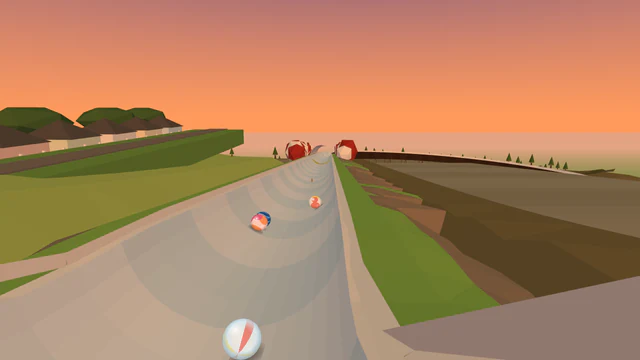
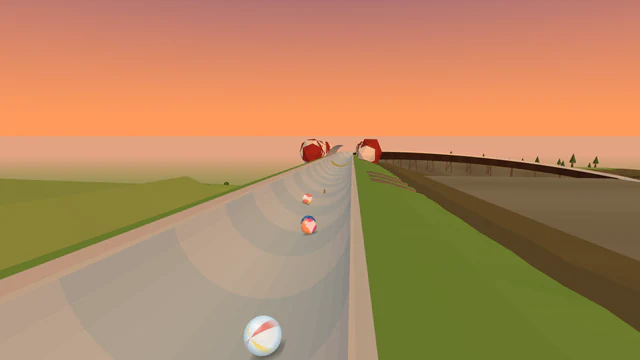
Rivers WIP: Yangtze over a dam crest (sameness 0.50), three levee pegs on Mississippi
Claude-Session: https://claude.ai/code/session_011vSSkqNPL9kncfzrwF15wS

diff --git a/src/trackKit/layouts.js b/src/trackKit/layouts.js
@@ -1323,9 +1323,9 @@ const LAYOUTS = {
       obstacles: [parked({ costume: c.parked, at: 0.2, side: L, length: 6 }), peg({ costume: c.peg, at: 0.45, line: 'right' })], features: [rumble({ from: 0.7, to: 0.95, count: 3 })],
     },
   ],
-  /** L76 Steamer pass (Rivers): a straight along the levee (a peg), a straight through a paddle steamer (a tunnel; a boost), a long sweep out over the bayou (it flies here), a drop, the hairpin, S-bends through the river town, a slalom drop, a sweep to the landing and a parked piece and a peg at the run-in. */
+  /** L76 Steamer pass (Rivers): a straight along the levee (three pegs), a straight through a paddle steamer (a tunnel; a boost), a long sweep out over the bayou (it flies here), a drop, the hairpin, S-bends through the river town, a slalom drop, a sweep to the landing and a parked piece and a peg at the run-in. */
   'steamer-pass': (L, R, c) => [
-    { key: 'levee', name: 'Levee straight', shape: straight(120, { grade: 0.1 }), obstacles: [peg({ costume: c.peg, at: 0.5, line: 'center' })], billboards: 1 },
+    { key: 'levee', name: 'Levee straight', shape: straight(120, { grade: 0.1 }), obstacles: [peg({ costume: c.peg, at: 0.2, line: 'left' }), peg({ costume: c.peg, at: 0.35, line: 'right' }), peg({ costume: c.peg, at: 0.5, line: 'center' })], billboards: 1 },
     { key: 'steamer', name: 'Through the steamer', shape: straight(70, { grade: 0.1 }), features: [boost({ at: 0.1 })] },
     { key: 'bayou', name: 'Bayou sweep', shape: sweep({ side: L, radius: 90, degrees: 140, grade: 0.085 }), billboards: 2 },
     { key: 'drop', name: 'Drop', shape: plunge(45, { grade: 0.22, from: 0.085 }) },
@@ -1357,15 +1357,16 @@ const LAYOUTS = {
       obstacles: [parked({ costume: c.parked, at: 0.2, side: L, length: 6 }), peg({ costume: c.peg, at: 0.45, line: 'right' })], features: [rumble({ from: 0.7, to: 0.95, count: 3 })],
     },
   ],
-  /** L78 Lock staircase (Rivers): a straight down five lock steps, a river sweep, a steep slalom drop under a long bridge (the lottery: the clean drop has none at the gate), the hairpin, S-bends, a spiral and a parked piece and a peg at the run-in. */
+  /** L78 Lock staircase (Rivers): a straight down five lock steps, a short climb over the dam crest, a steep slalom drop under a long bridge (the lottery: the clean drop has none at the gate), a river sweep, S-bends, a spiral, the hairpin and a parked piece and a peg at the run-in. */
   'lock-staircase': (L, R, c) => [
     { key: 'locks', name: 'Lock staircase', shape: straight(100, { grade: 0.15 }), features: [steps({ from: 0.3, to: 0.9, count: 5, drag: 0.01 })], billboards: 1 },
-    { key: 'riverSweep', name: 'River sweep', shape: sweep({ side: R, radius: 85, degrees: 100, grade: 0.1 }), billboards: 2 },
+    { key: 'damCrest', name: 'Over the dam crest', shape: climb(12, { grade: -0.05, after: 0.1 }) },
     { key: 'bridgeRun', name: 'Bridge slalom', shape: plunge(65, { grade: 0.3, from: 0.09 }), obstacles: [slalom({ costume: c.slalom, from: 0.2, to: 0.95, count: 5, loss: 0.15 })] },
-    { key: 'brakingStraight', name: 'Run to the hairpin', shape: straight(50, { grade: 0.12 }) },
-    { key: 'hairpin', name: 'Hairpin', shape: hairpin({ side: L }), obstacles: [swipe({ costume: c.swipe, side: 'high' })] },
+    { key: 'riverSweep', name: 'River sweep', shape: sweep({ side: R, radius: 85, degrees: 100, grade: 0.1 }), billboards: 2 },
     { key: 'sBends', name: 'S-bends', shape: sBends({ first: R, radius: 75, degrees: 60, grade: 0.12 }), billboards: 1 },
     { key: 'spin', name: 'Spiral', shape: spiral({ side: L, radius: 50, turns: 1, grade: 0.16 }) },
+    { key: 'brakingStraight', name: 'Run to the hairpin', shape: straight(50, { grade: 0.12 }) },
+    { key: 'hairpin', name: 'Hairpin', shape: hairpin({ side: L }), obstacles: [swipe({ costume: c.swipe, side: 'high' })] },
     {
       key: 'lastStraight', name: 'Last straight', shape: straight(75, { grade: 0.15 }),
       obstacles: [parked({ costume: c.parked, at: 0.2, side: R, length: 6 }), peg({ costume: c.peg, at: 0.45, line: 'left' })], features: [rumble({ from: 0.7, to: 0.95, count: 3 })],

diff --git a/src/tracks/yangtze-lock-run.js b/src/tracks/yangtze-lock-run.js
@@ -1,9 +1,9 @@
 'use strict';
 
 // Yangtze Lock Run: Rivers track 5, at a great river's ship locks among green mountains. Out of the top
-// lock as its gate opens, down a staircase of five locks beside the ships waiting in them, a wide sweep
-// down the river, a slalom under a long cable-stayed bridge, round a hairpin past the river boats and
-// down to the quay below the green peaks.
+// lock as its gate opens, down a staircase of five locks beside the ships waiting in them, over the dam
+// crest, a slalom down under a long cable-stayed bridge, a wide sweep down the river, round a hairpin past
+// the river boats and down to the quay below the green peaks.
 const { track, opening, layout } = require('../trackKit');
 
 module.exports = track({
@@ -11,7 +11,7 @@ module.exports = track({
   name: 'Yangtze Lock Run',
   family: 'river',
   difficulty: 'extreme',
-  description: 'A great river\'s ship locks among green mountains: out of the top lock as its gate opens, down a staircase of five locks beside the waiting ships, a wide sweep down the river, a slalom under a long bridge and down to the quay below the green peaks.',
+  description: 'A great river\'s ship locks among green mountains: out of the top lock as its gate opens, down a staircase of five locks beside the waiting ships, a slalom under a long bridge, a wide sweep down the river and down to the quay below the green peaks.',
   surface: 'ice',
   biome: 'meadow',
   lighting: 'dawn',
@@ -22,7 +22,7 @@ module.exports = track({
   start: { landmark: 'green-peaks', scenery: ['rocks'], type: 'lock-gate', gate: 'paddle', shots: { countdown: 'front', launch: 'overhead' } },
   finish: { landmark: 'river-ferry' },
   designChanges: [
-    'Built from the clean drop and the lock staircase, the library layout made for this track: a straight down five lock steps, a river sweep, a steep slalom drop under a long bridge, the hairpin, S-bends, a spiral and the run-in.',
+    'Built from the clean drop and the lock staircase, the library layout made for this track: a straight down five lock steps, a climb over the dam crest, a steep slalom drop under a long bridge, a river sweep, S-bends, a spiral, the hairpin and the run-in.',
     'The ship locks stand beside the staircase, the steps level with their gates (looks only).',
   ],
   opening: opening('clean-drop', {
@@ -33,6 +33,7 @@ module.exports = track({
     costumes: { slalom: 'mooring-pole', peg: 'bollard', swipe: 'fisherman', parked: 'river-ferry' },
     dress: {
       locks: { name: 'The lock staircase', height: 0, river: 'right', landmarks: [{ name: 'ship-locks', at: 0.5, side: 'left', distance: 24 }] },
+      damCrest: { name: 'Over the dam crest', height: 0, river: 'right' },
       riverSweep: { name: 'Down the river', height: 0, river: 'right', landmarks: [{ name: 'green-peaks', at: 0.5, side: 'left', distance: 140 }, { name: 'river-cruiser', at: 0.6, river: true, distance: 40 }] },
       bridgeRun: { name: 'Under the long bridge', height: 0, river: 'right', overhead: ['cable-stayed-bridge'] },
       brakingStraight: { name: 'Run to the hairpin', height: 0, river: 'right' },

diff --git a/src/tracks/README.md b/src/tracks/README.md
@@ -149,9 +149,9 @@ module.exports = track({
   | `golden-lap` (track and field) | sweep, drop, pegStraight, brakingStraight, hairpin, spin, goldenSweep, sBends, lastStraight |
   | `bridge-slalom` (rivers) | quay (two pegs), pillars (a slalom under a chain bridge), rise (a short climb), flyOut, drop, brakingStraight, hairpin, island (a spiral), farBank (S-bends), lastStraight |
   | `market-maze` (rivers) | boats (a slalom among the market boats), bankBends (S-bends), pierRamp (a short climb), pierDrop, brakingStraight, hairpin, bankSweep, spin, underPier, pontoon (two pegs), lastStraight |
-  | `steamer-pass` (rivers) | levee, steamer (a tunnel through a paddle steamer; a boost), bayou, drop, brakingStraight, hairpin, town (S-bends), slalomDrop, landing, lastStraight |
+  | `steamer-pass` (rivers) | levee (three pegs), steamer (a tunnel through a paddle steamer; a boost), bayou, drop, brakingStraight, hairpin, town (S-bends), slalomDrop, landing, lastStraight |
   | `falls-edge` (rivers) | lipBend, lip (pegs), falls (a waterfall), gorge (a slalom), spin, brakingStraight, hairpin, upstream (S-bends), lastStraight |
-  | `lock-staircase` (rivers) | locks (five steps), riverSweep, bridgeRun (a steep slalom drop), brakingStraight, hairpin, sBends, spin, lastStraight |
+  | `lock-staircase` (rivers) | locks (five steps), damCrest (a short climb), bridgeRun (a steep slalom drop), riverSweep, sBends, spin, brakingStraight, hairpin, lastStraight |
 
   A track may still write its own sections by hand; the sameness check makes sure they differ.
 - **`family`**: `'world-tour'` (the default), `'grand-prix'` (any `grandPrix` track),
